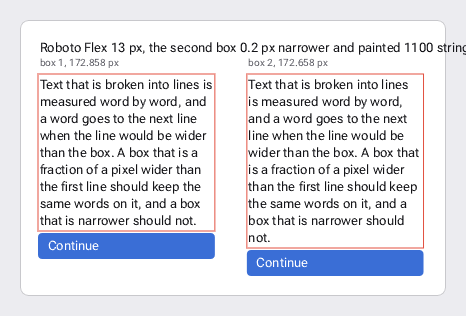
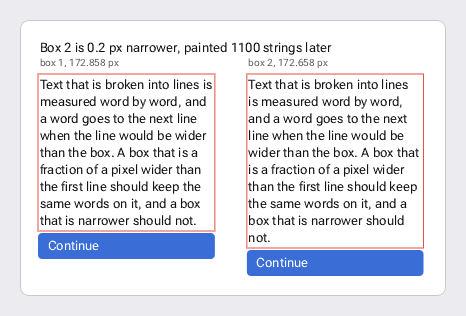
Shorten the wrap scene's heading and keep the size zoom inside the card

Changed region(s): [[0.0901, 0.1139, 1.0, 0.1709]]

diff --git a/src/shaping.rs b/src/shaping.rs
@@ -242,7 +242,7 @@ impl Scene {
             .fill_text(
                 LEFT,
                 HEADING_BASELINE,
-                &format!("Roboto Flex {PARAGRAPH_SIZE} px, the second box 0.2 px narrower and painted {OTHER_STRINGS} strings after its layout"),
+                &format!("Box 2 is 0.2 px narrower, painted {OTHER_STRINGS} strings later"),
                 &heading,
             )
             .expect("fill_text");
